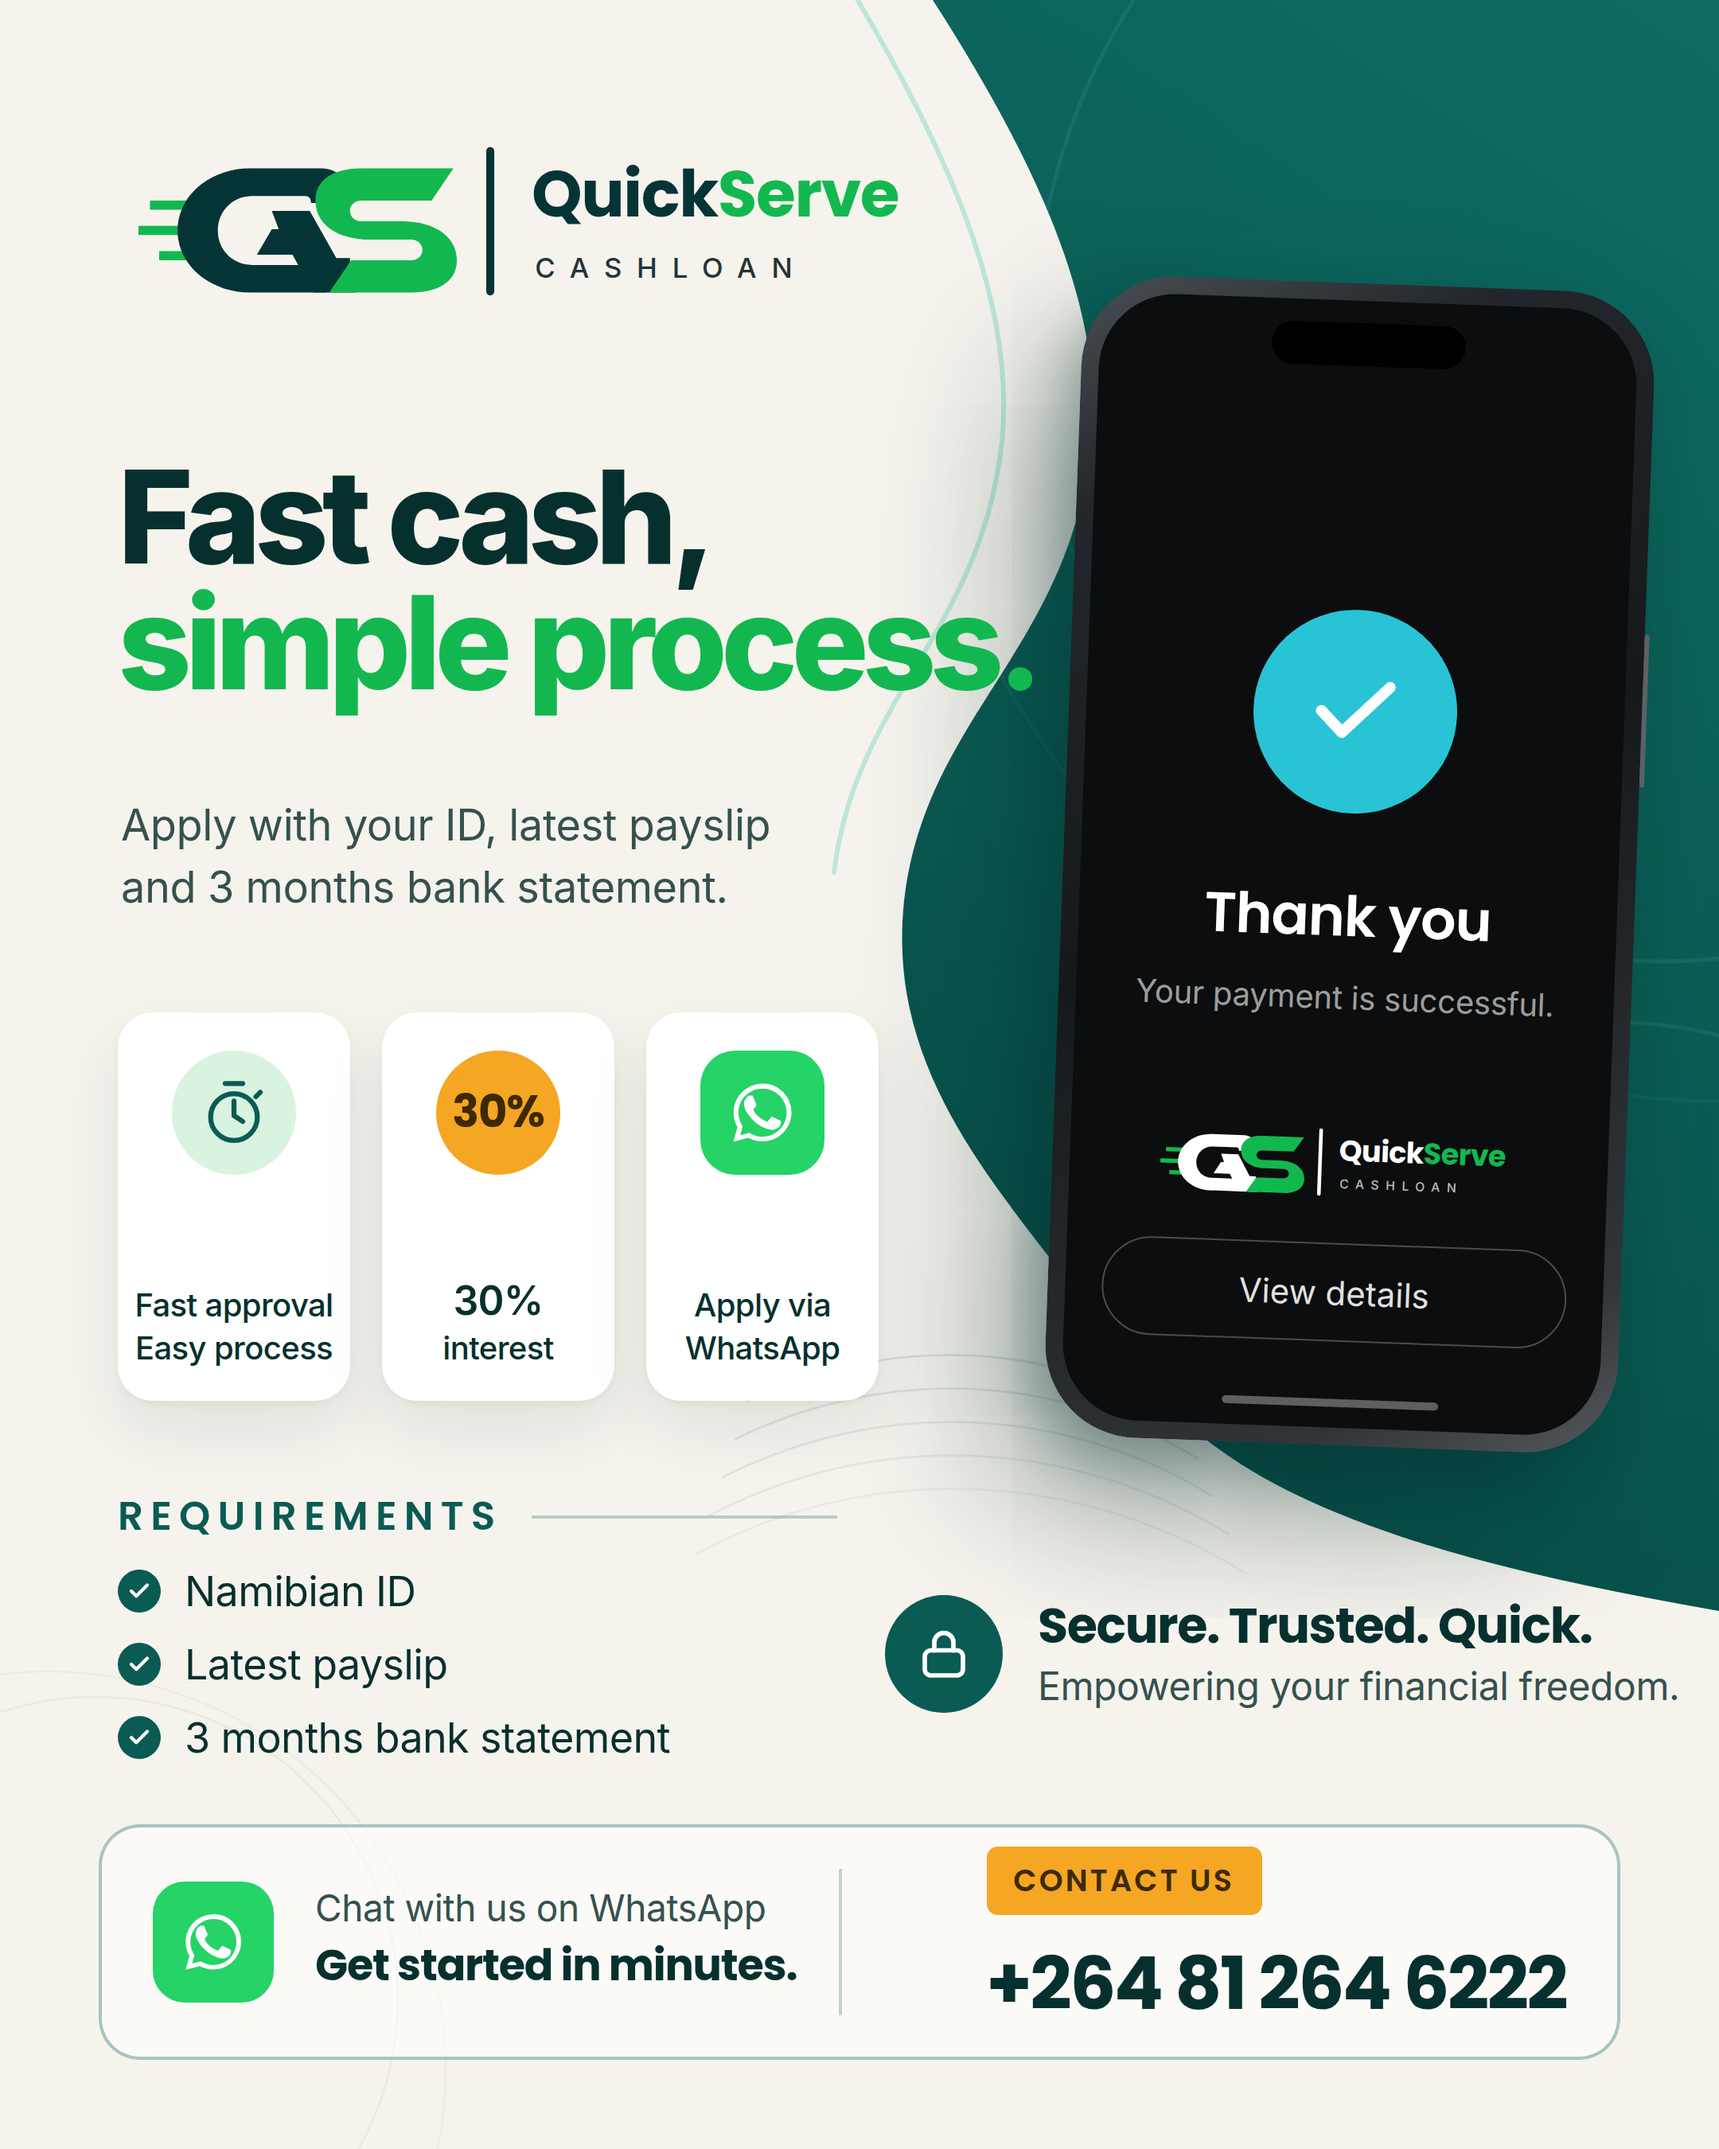
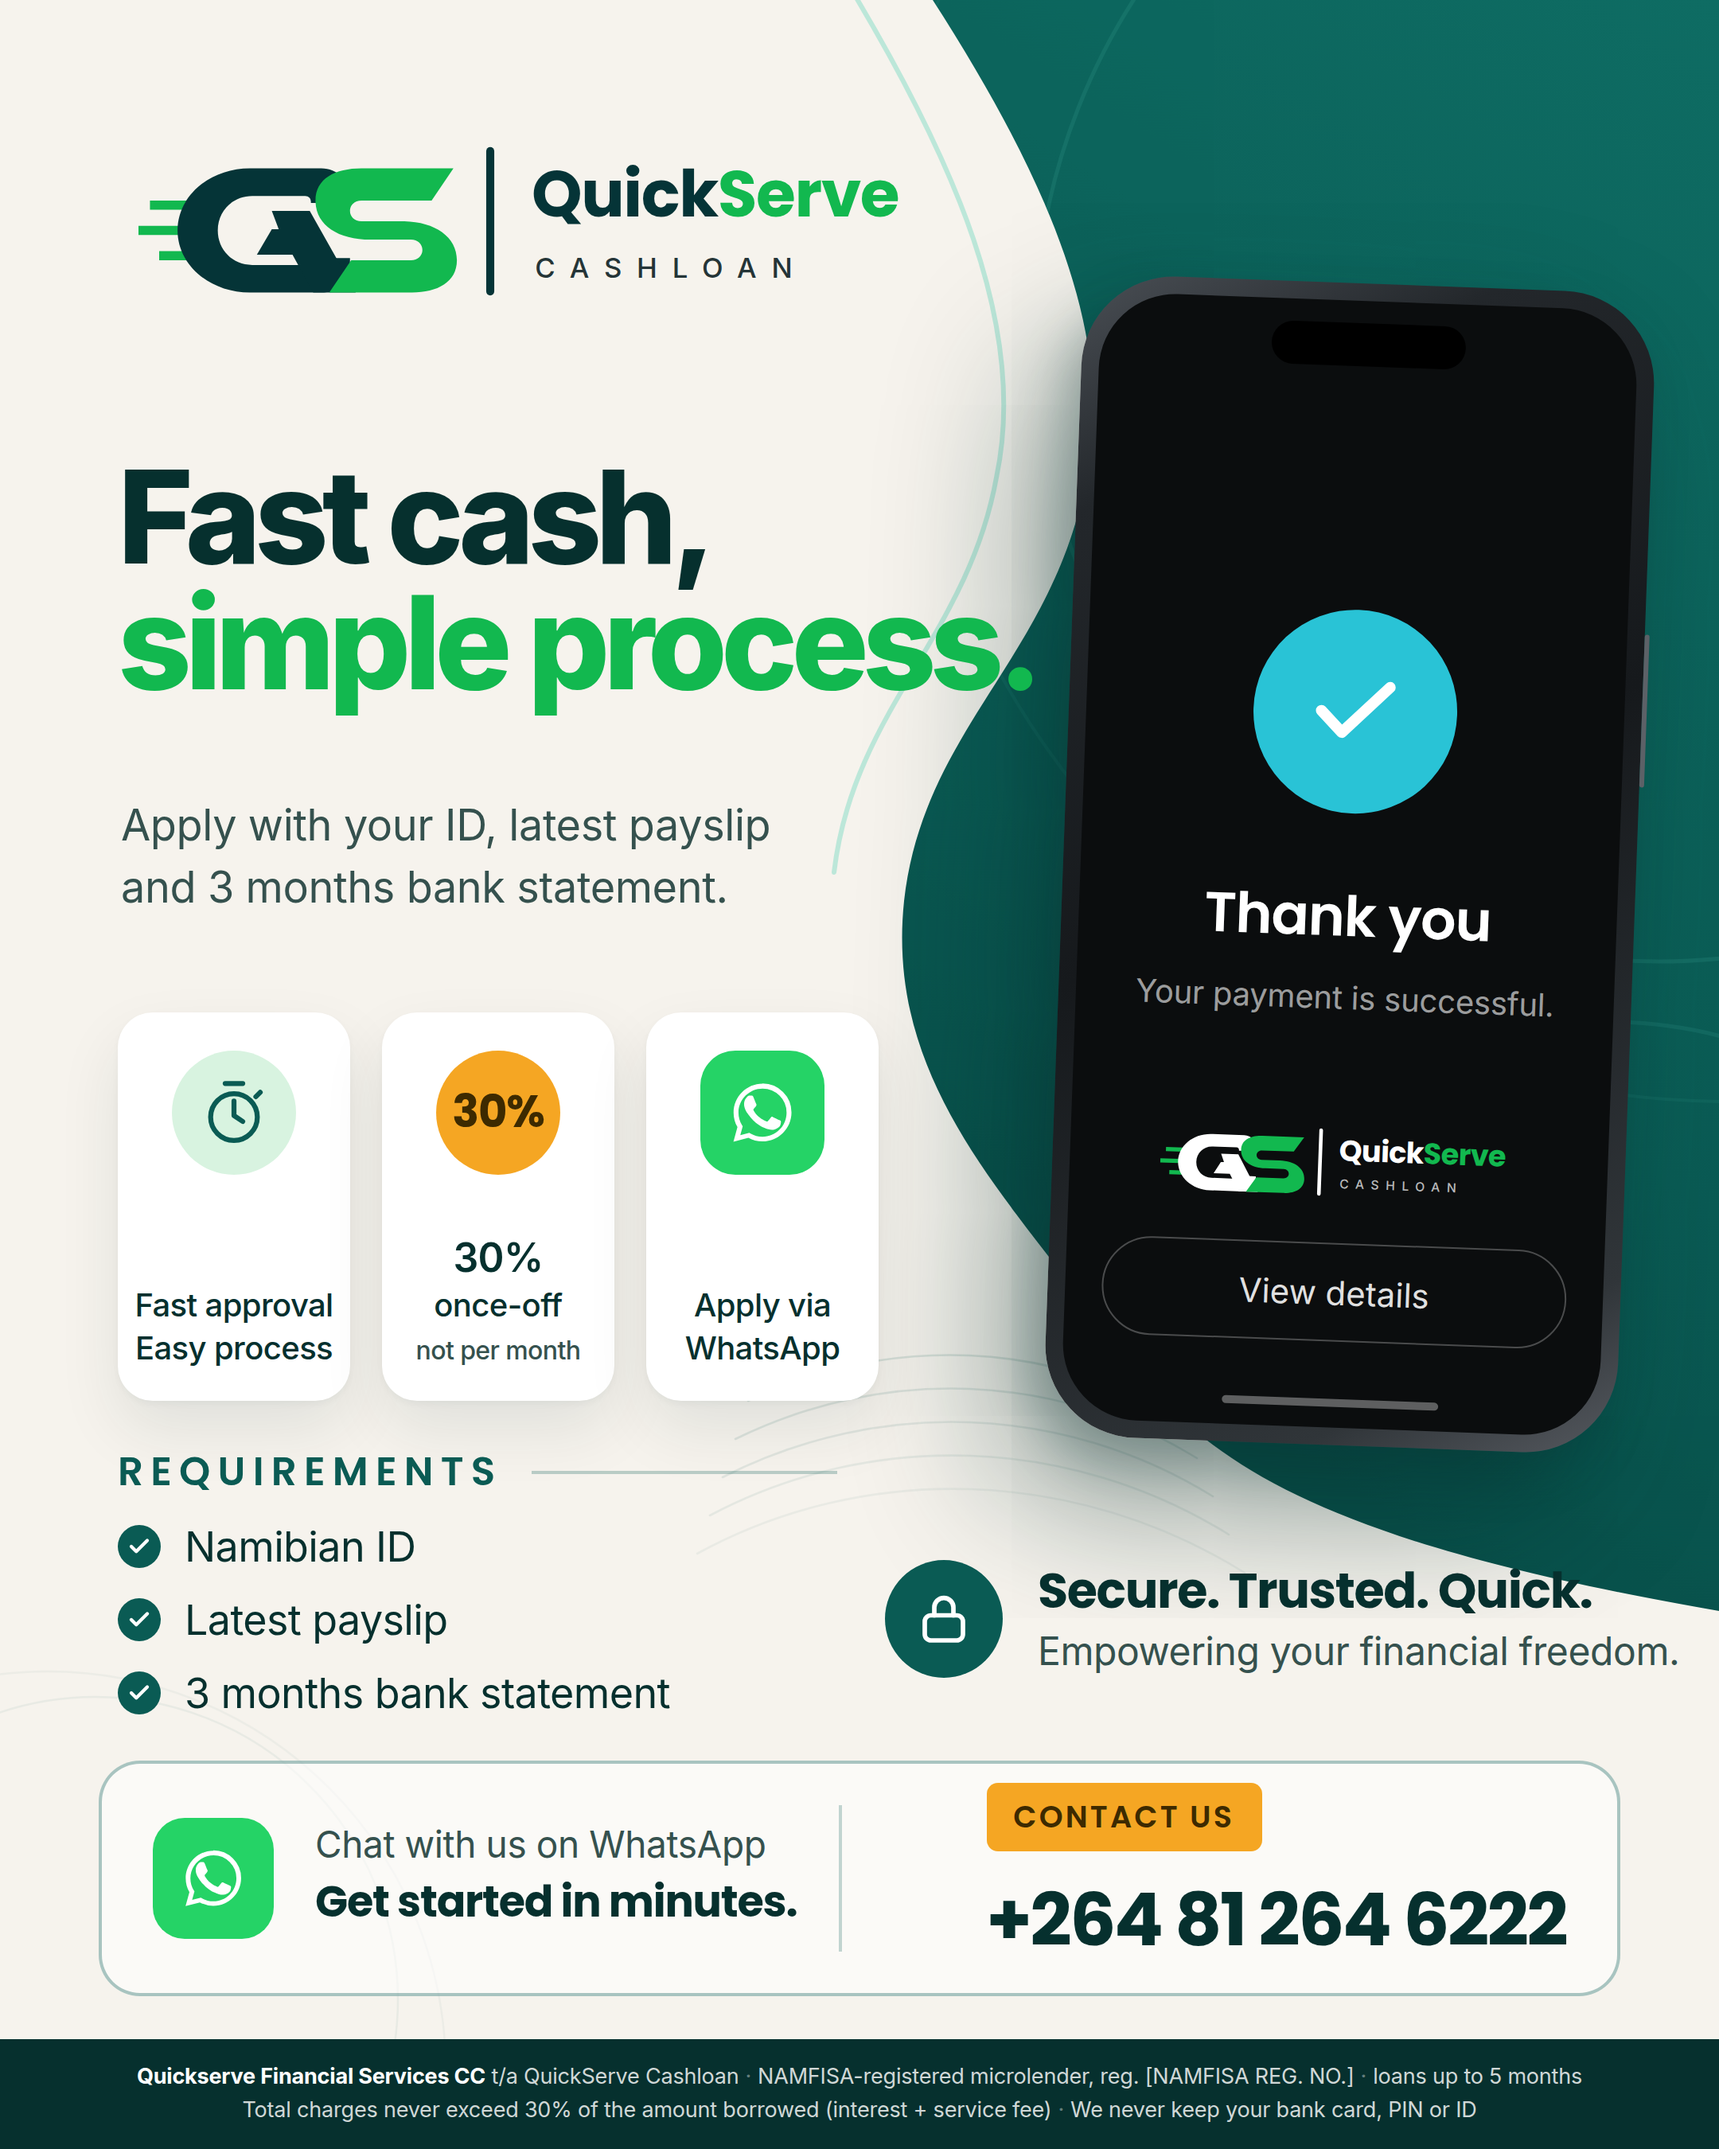
fix(marketing): make the 30% claim compliant and add a disclosure ribbon
Building on the edit that reworded the "30%" card: the long compliance
sentence overflowed the small feature card and spilled over the requirements
list, and the bottom disclosure was white text on the cream background, so it
was invisible.

The middle card now reads "30% once-off / not per month" — short enough to fit,
and it states the rate honestly. The full disclosure moves into a dark ribbon
across the foot of the flyer, where it is legible: registered legal name
(Quickserve Financial Services CC t/a QuickServe Cashloan), NAMFISA
registration (number left as a fill-in), the five-month maximum term, the 30%
total-charge cap covering interest and service fee, and the promise never to
keep a borrower's bank card, PIN or ID.

This matches what the Namibian microlending research established: the 30%
ceiling is a once-off charge on the principal for the whole loan, not a monthly
rate, and a service fee counts inside it.

The flyer renderer now also fails if any feature card's text overflows its
fixed height or if the disclosure ribbon overlaps another block, so a future
copy change that breaks the layout is caught before it ships rather than after.

Claude-Session: https://claude.ai/code/session_01XHkuqYKT3JHzcKiLAjhY7k

Changed region(s): [[0.0, 0.6844, 1.0, 1.0], [0.2481, 0.56, 0.3412, 0.6533]]

diff --git a/marketing/quickserve-flyer.html b/marketing/quickserve-flyer.html
@@ -102,10 +102,11 @@ body {
   color: var(--ink); text-align: center; letter-spacing: -0.3px;
 }
 .card .label .big { display: block; font-weight: 600; font-size: 25px; }
+.card .label .fine { font-weight: 500; font-size: 16px; color: var(--body); }
 
 /* ---------- requirements ---------- */
 .req-head {
-  position: absolute; top: 934px; left: 74px; z-index: 5;
+  position: absolute; top: 906px; left: 74px; z-index: 5;
   display: flex; align-items: center; gap: 18px; width: 452px;
 }
 .req-head span {
@@ -115,7 +116,7 @@ body {
 .req-head i { flex: 1; height: 2px; background: rgba(10,91,84,.26); }
 
 .req-list {
-  position: absolute; top: 984px; left: 74px; z-index: 5;
+  position: absolute; top: 956px; left: 74px; z-index: 5;
   display: flex; flex-direction: column; gap: 15px;
 }
 .req-list li { list-style: none; display: flex; align-items: center; gap: 15px; }
@@ -131,7 +132,7 @@ body {
 
 /* ---------- trust strip ---------- */
 .trust {
-  position: absolute; top: 1002px; left: 556px; z-index: 5;
+  position: absolute; top: 980px; left: 556px; z-index: 5;
   display: flex; align-items: center; gap: 22px;
 }
 .trust .lock {
@@ -151,7 +152,7 @@ body {
 
 /* ---------- contact bar ---------- */
 .contact {
-  position: absolute; left: 62px; right: 62px; bottom: 56px; z-index: 5;
+  position: absolute; left: 62px; right: 62px; bottom: 96px; z-index: 5;
   height: 148px; border-radius: 26px;
   border: 2.5px solid rgba(10,91,84,.34);
   background: rgba(255,255,255,.55);
@@ -183,6 +184,17 @@ body {
   font-weight: 700; font-size: 46px; color: var(--ink);
   letter-spacing: -1.4px; white-space: nowrap;
 }
+
+/* ---------- compliance disclosure ribbon ---------- */
+.disclosure {
+  position: absolute; left: 0; right: 0; bottom: 0; z-index: 6;
+  background: var(--teal-900); color: rgba(255,255,255,.82);
+  font-family: Inter, sans-serif; font-size: 13.5px; line-height: 1.55;
+  letter-spacing: -0.1px; text-align: center;
+  padding: 13px 46px 14px;
+}
+.disclosure strong { color: #fff; font-weight: 700; }
+.disclosure .sep { color: rgba(255,255,255,.4); padding: 0 4px; }
 
 /* ---------- phone mockup ---------- */
 .phone {
@@ -329,7 +341,7 @@ body {
 
   <div class="card">
     <div class="badge amber"><span class="pct">30%</span></div>
-    <div class="label"><span class="big">30%</span>interest</div>
+    <div class="label"><span class="big">30%</span>once-off<br/><span class="fine">not per month</span></div>
   </div>
 
   <div class="card">
@@ -429,5 +441,10 @@ body {
   </div>
 </div>
 
+
+<div class="disclosure">
+  <strong>Quickserve Financial Services CC</strong> t/a QuickServe Cashloan<span class="sep">&middot;</span>NAMFISA-registered microlender, reg. [NAMFISA&nbsp;REG.&nbsp;NO.]<span class="sep">&middot;</span>loans up to 5 months
+  <br/>Total charges never exceed 30% of the amount borrowed (interest + service fee)<span class="sep">&middot;</span>We never keep your bank card, PIN or ID
+</div>
 </body>
 </html>

diff --git a/tools/render-flyer.js b/tools/render-flyer.js
@@ -32,7 +32,7 @@ console.log(`Source: ${OUT_HTML} (${(fs.statSync(OUT_HTML).size / 1024).toFixed(
     const sel = {
       logo: '.header', headline: '.headline', subhead: '.subhead',
       cards: '.features', reqHead: '.req-head', reqList: '.req-list',
-      trust: '.trust', contact: '.contact', phone: '.phone'
+      trust: '.trust', contact: '.contact', phone: '.phone', disclosure: '.disclosure'
     };
     const out = {};
     for (const [k, s] of Object.entries(sel)) {
@@ -47,7 +47,8 @@ console.log(`Source: ${OUT_HTML} (${(fs.statSync(OUT_HTML).size / 1024).toFixed(
     ['headline','phone'], ['subhead','phone'], ['cards','phone'],
     ['cards','reqHead'], ['reqHead','reqList'], ['reqList','contact'],
     ['reqList','trust'], ['trust','contact'], ['trust','phone'],
-    ['logo','phone'], ['subhead','cards'], ['headline','subhead']
+    ['logo','phone'], ['subhead','cards'], ['headline','subhead'],
+    ['contact','disclosure'], ['reqList','disclosure'], ['contact','reqList']
   ];
 
   console.log('\n  element      x     y     right  bottom');
@@ -60,5 +61,16 @@ console.log(`Source: ${OUT_HTML} (${(fs.statSync(OUT_HTML).size / 1024).toFixed(
     : '\n  LAYOUT OK - no collisions');
   const overflow = Object.entries(boxes).filter(([,v]) => v.r > 1080 || v.b > 1350 || v.x < 0 || v.y < 0);
   if (overflow.length) console.log('  OFF-CANVAS: ' + overflow.map(([k]) => k).join(', '));
+
+  // Fixed-height cards clip overflow without changing their bounding box, so
+  // measure scroll vs client height directly — this is what a long label breaks.
+  const clipped = await page.evaluate(() =>
+    Array.from(document.querySelectorAll('.card')).flatMap((c, i) => {
+      const label = c.querySelector('.label');
+      return label && label.scrollHeight > label.clientHeight + 2 ? [i] : [];
+    })
+  );
+  if (clipped.length) console.log('  CARD TEXT OVERFLOWS: card #' + clipped.join(', #'));
+  else console.log('  cards fit');
   await browser.close();
 })();
